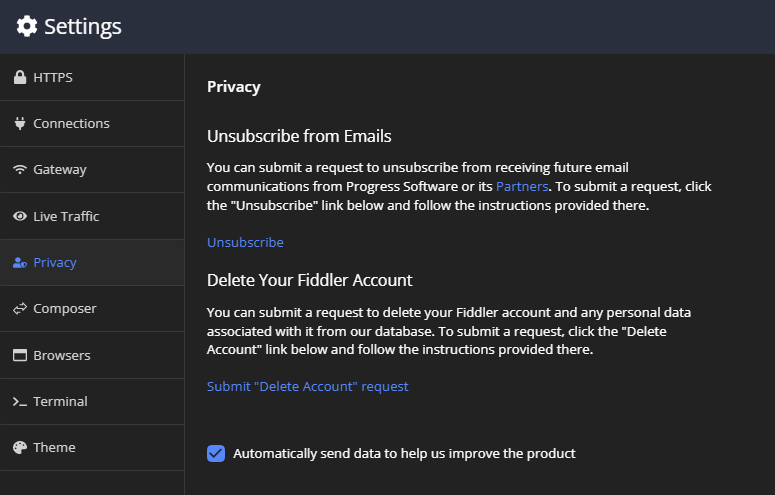
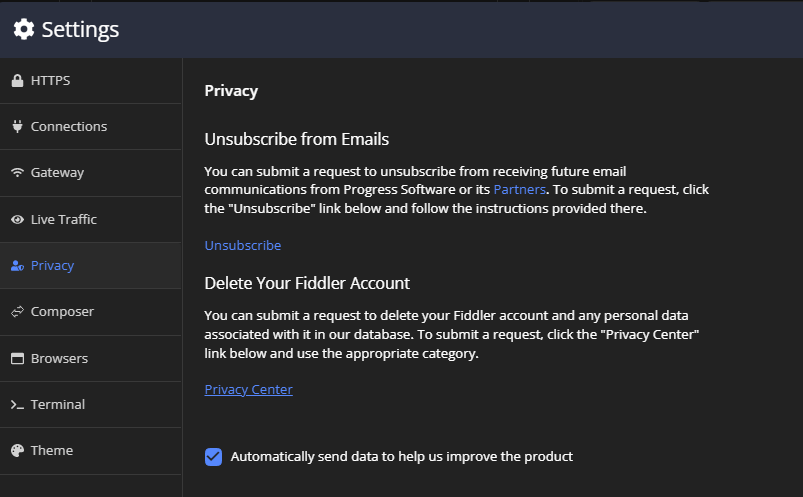
docs: update privacy page (#369)

diff --git a/user-guide/settings/privacy.md b/user-guide/settings/privacy.md
@@ -8,11 +8,11 @@ position: 40
 
 # Privacy Menu
 
-The **Privacy** sub-menu provides options to stop receiving emails from Progress and its partners as well as to request the deletion of your Fiddler Everywhere associated account.
+The **Privacy** sub-menu provides options to stop receiving emails from Progress and its partners and request the deletion of your Fiddler Everywhere associated account.
 
-- **Unsubscribe**&mdash;To submit a request to unsubscribe from receiving future emails, click the **Unsubscribe** link. You will be redirected to a unsubscribe page where you can follow the instructions.
-- **Submit "Delete Account" request**&mdash;To submit a request, click the **Submit "Delete Account" request** link. You will be redirected to a page where you can follow the instructions.
-- **Automatically send data to help us improve the product**&mdash;Your information and usage statistics help us understand product usage better and continue building the product you love. To subscribe or unsubscribe from participating in the usage statistics sharing, check or, respectively, uncheck the **Automatically send data to help us improve the product** option. Click **Save** to apply the change.
+- **Unsubscribe from Emails**&mdash;To submit a request to unsubscribe from receiving future emails, click the **Unsubscribe** link. You will be redirected to an unsubscribe page where you can follow the instructions.
+
+- **Delete YOur Fiddler Account**&mdash;To submit a request, follow the **Privacy Center** link. You will be redirected to a page where you can submit a deletion request.
 
 The following figure displays the **Privacy** menu settings.
 
